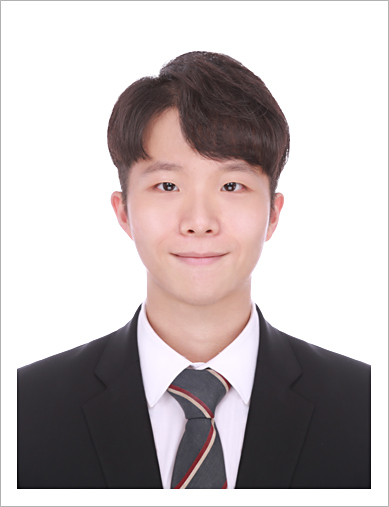
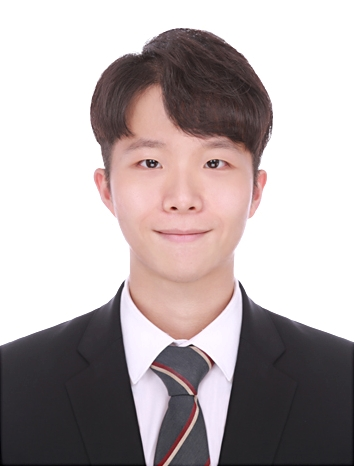
team member profile update

diff --git a/web/_site/team/index.html b/web/_site/team/index.html
@@ -563,6 +563,42 @@
 
 
 <div class="col-sm-6 clearfix">
+  <img src="/images/teampic/lhj.png" class="img-responsive" width="25%" style="float: left" />
+  <h4>
+    
+      HyeokJae Lee (이혁재)
+    
+  </h4>
+  
+  <i>M.S. Candidate (융합보안대학원)</i>
+  <ul style="overflow: hidden">
+
+  
+
+  
+
+  
+  <li> K-Shield 주니어 수료 (4기) </li>
+  <li> 다수의 강의 경험 (모의 침투, AI 악성코드 탐지 등) </li>
+  <li> (전) 누리랩 연구원 </li>
+  
+
+  
+
+  
+
+  </ul>
+</div>
+
+
+
+
+</div>
+
+<div class="row">
+
+
+<div class="col-sm-6 clearfix">
   <img src="/images/teampic/ysc.jpg" class="img-responsive" width="25%" style="float: left" />
   <h4>
     
@@ -584,6 +620,44 @@
   <li> 코드게이트 CTF 본선 2회진출 (대학부) </li>
   <li> CVE-2023-36053 보유 </li>
   <li> (현) 스틸리언 연구원 </li>
+  
+
+  
+
+  </ul>
+</div>
+
+
+
+
+
+
+
+
+
+
+
+<div class="col-sm-6 clearfix">
+  <img src="/images/teampic/pjs.jpg" class="img-responsive" width="25%" style="float: left" />
+  <h4>
+    
+      JunSeo Park (박준서)
+    
+  </h4>
+  
+  <i>B.S. Candidate (컴퓨터공학과)</i>
+  <ul style="overflow: hidden">
+
+  
+
+  
+
+  
+  <li> 경희대 컴퓨터공학과 B.S </li>
+  <li> 다수의 워게임풀이 경력 </li>
+  <li> 시스템 보안 </li>
+  
+
   
 
   
@@ -685,7 +759,7 @@
 <h2 id="staff">Staff</h2>
 <div class="row">
 <div class="col-sm-6 clearfix">
-  <img src="/images/teampic/joo.jpg" class="img-responsive" width="25%" style="float: left" />
+  <img src="/images/teampic/joo.png" class="img-responsive" width="25%" style="float: left" />
   <h4>주수민 (산학협력단)</h4>
   <i>email: jj00@khu.ac.kr</i><br />
    역할: 행정지원 <br />

diff --git a/web/_pages/team.md b/web/_pages/team.md
@@ -209,7 +209,7 @@ permalink: /team/
 ## Staff
 <div class="row">
 <div class="col-sm-6 clearfix">
-  <img src="{{ site.url }}{{ site.baseurl }}/images/teampic/joo.jpg" class="img-responsive" width="25%" style="float: left" />
+  <img src="{{ site.url }}{{ site.baseurl }}/images/teampic/joo.png" class="img-responsive" width="25%" style="float: left" />
   <h4>주수민 (산학협력단)</h4>
   <i>email: jj00@khu.ac.kr</i><br>
    역할: 행정지원 <br>
